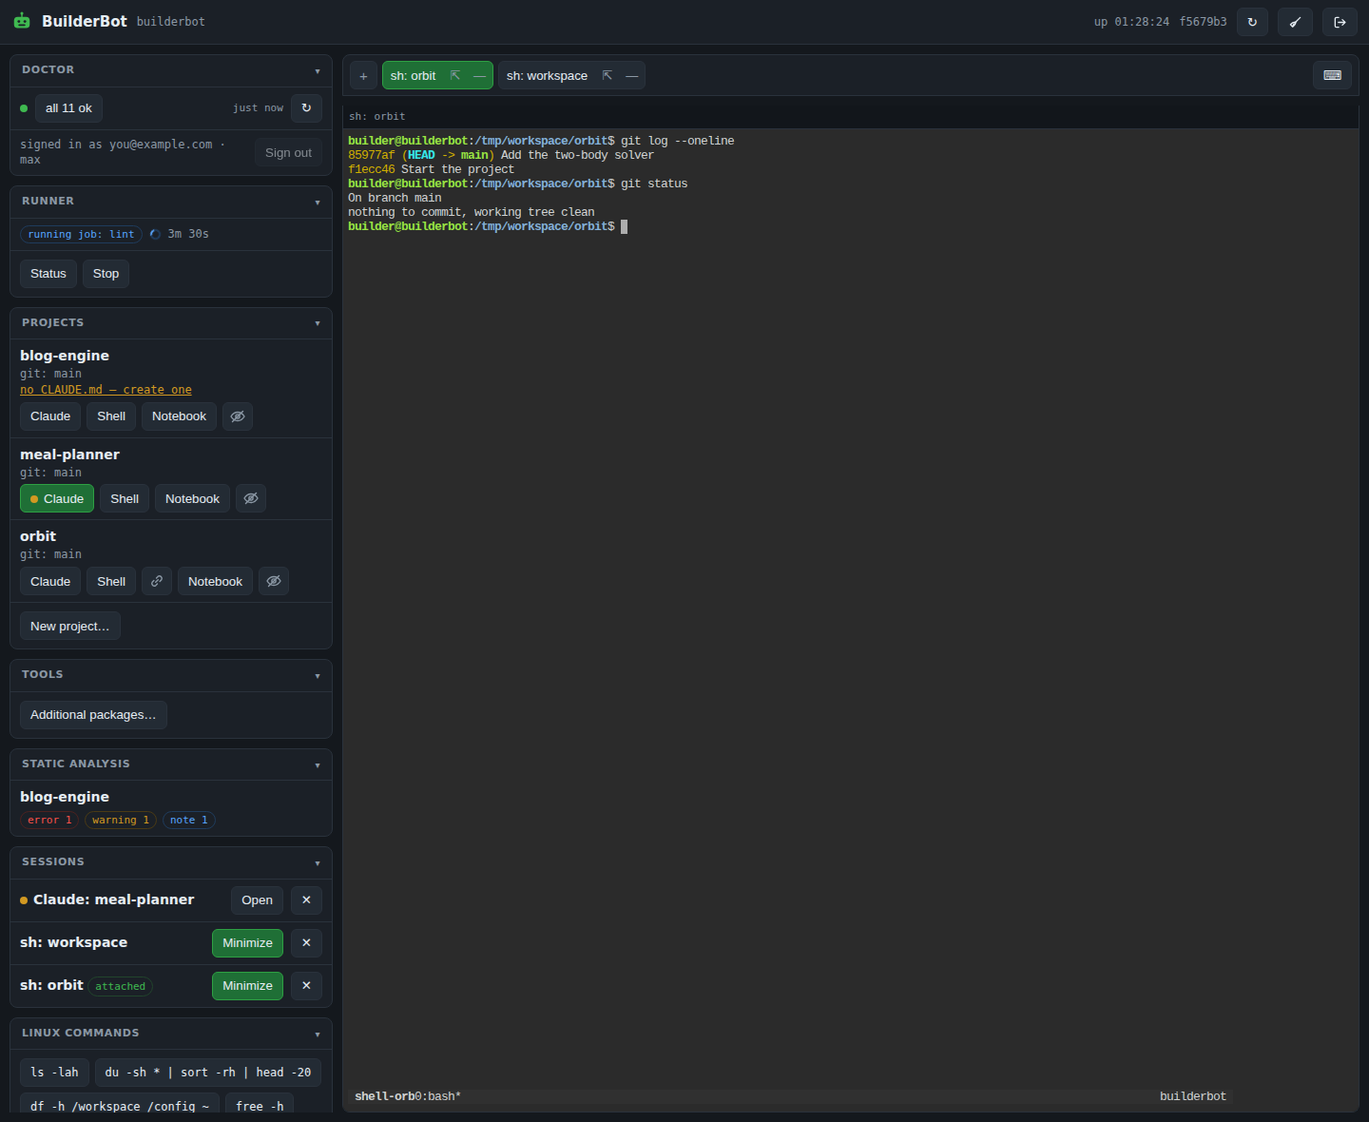
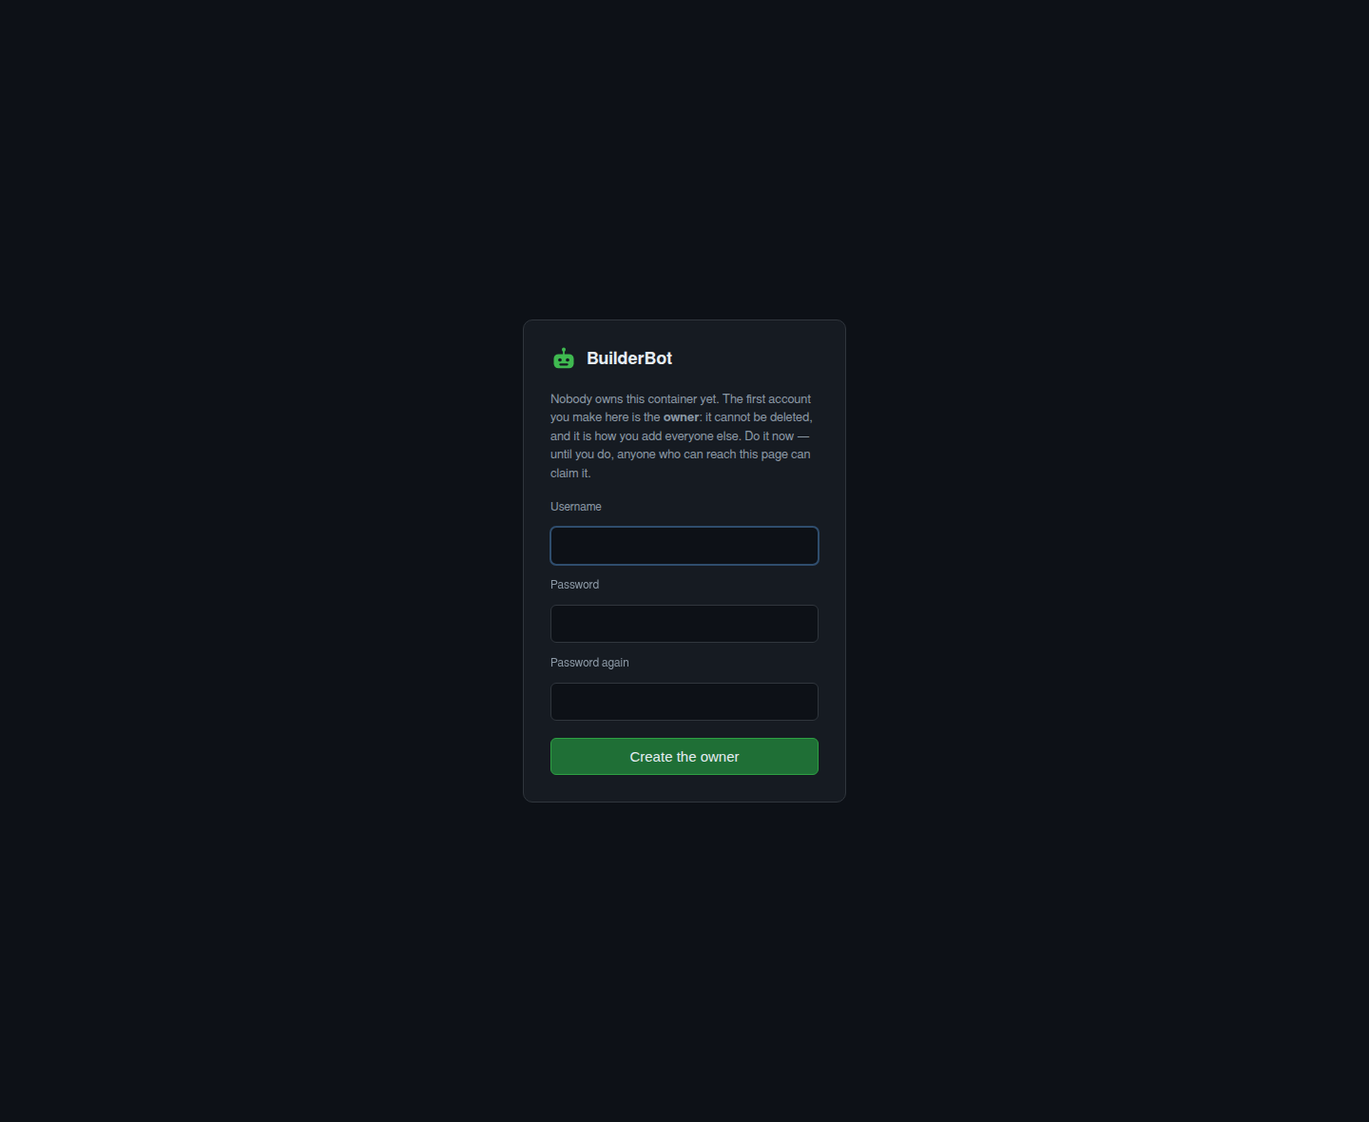
Make a sentence readable on a phone, starting with the changelog
The changelog editor on a phone was a wall: every entry a one-line input
showing thirty of its three hundred characters, and a category band drawn
the same size and shape as an entry, so the arrangement could not be read
at all.

An entry's words are now a proseline and a band is a heading. A proseline
is the convention the rest of this follows: a value that is one line of
PROSE gets a textarea that wraps, grows to its content and never scrolls
inside itself, with Enter still not making a newline because the value is
still one line. Every <input> carrying a maxlength over 120 becomes one —
the roadmap's item and step fields, the reason a thing was dropped, a
bug's title, area, expected and actual, a memory's hook, a test's reason,
the commit message — and uniform.mjs fails any that come back.

Wired by a MutationObserver rather than a call at each draw, for the same
reason the field skin styles elements instead of keeping an allowlist of
containers: a surface that forgets to opt in is the failure mode.

Also: .clog inherited the changelog pane's pre-wrap, so every hint in it
kept the indentation of the template literal it was written in.

Claude-Session: https://claude.ai/code/session_01G6iUPRzoJRfbfo2GdZ1FKR

diff --git a/scripts/dashboard/index.html b/scripts/dashboard/index.html
@@ -986,6 +986,19 @@ textarea,select{
   .side .card select{font-size:16px;min-height:var(--tap)}
 }
 .modal textarea{min-height:132px;resize:vertical;white-space:pre}
+/* A value that is ONE LINE of prose, in a box that can show all of it. An
+   <input> shows about thirty characters at phone width, which is not enough
+   to read a sentence with, let alone edit one — and a roadmap item, a bug's
+   title or a changelog entry runs to three hundred. So: a textarea that
+   wraps and grows to its content, never scrolling inside itself, with Enter
+   still not making a newline because the value is still one line.
+   proseline() does the growing; see docs/design-language.md (Controls).
+
+   BELOW `.modal textarea` and not above it: that rule is `white-space:pre`
+   at the same specificity, so a proseline in a sheet stopped wrapping and
+   went back to being the one-line box this exists to replace. */
+textarea.proseline{resize:none;overflow:hidden;white-space:pre-wrap;
+  overflow-wrap:anywhere;min-height:var(--tap)}
 /* The env editor wraps where the command editor does not. The rule above is
    pre because a wrapped shell line lies about what runs — but this is an env
    file whose own lines are short KEY=value pairs, and what overflows is the
@@ -1227,16 +1240,38 @@ textarea,select{
    arrangement reads as a list rather than as a form. The commits are on the
    row and not editable: they are what the entry IS, and the words are what
    somebody is here to change. */
-.clog{padding:11px 14px;display:flex;flex-direction:column;gap:10px}
-.clog .clgroup{display:flex;flex-direction:column;gap:6px}
-.clog .clhead{display:flex;align-items:center;gap:6px}
-.clog .clhead input{flex:1 1 auto;min-width:0;font:600 12px/1.4 system-ui,sans-serif}
-.clog .clrow{display:flex;align-items:center;gap:6px;flex-wrap:wrap}
-.clog .clrow input.cltext{flex:1 1 16rem;min-width:0}
-.clog .clrow select{flex:0 0 auto;width:auto}
-.clog .clsha{font:11px/1 var(--mono);color:var(--dim);flex:0 0 auto}
+/* white-space, because .clog is drawn INSIDE the .verlogpane and inherited
+   its pre-wrap: every line of every hint and label here kept the indentation
+   of the template literal it was written in. */
+.clog{padding:11px 14px;display:flex;flex-direction:column;gap:16px;
+  white-space:normal}
+.clog .clgroup{display:flex;flex-direction:column;gap:10px}
+/* A category is a HEADING with its two controls, not another field. It was a
+   bordered box the size of an entry's box, so on a phone — where every row is
+   full width anyway — a band and a line were indistinguishable and the
+   arrangement could not be read at all. It reads as the name of what is under
+   it until you put a cursor in it, and then it is a field again. */
+.clog .clhead{display:flex;align-items:center;gap:6px;
+  border-bottom:1px solid var(--line);padding-bottom:5px}
+.clog .clhead input.clname{flex:1 1 auto;min-width:0;width:auto;
+  background:none;border:1px solid transparent;padding:3px 5px;
+  font:600 14px/1.3 system-ui,sans-serif;color:var(--ink)}
+.clog .clhead input.clname:focus{background:var(--sunk);border-color:var(--line)}
+/* An entry is its words, wrapping, with everything ABOUT it on one quiet line
+   underneath. The words were a one-line input: a 200-character entry showed
+   thirty characters of itself on a phone, which is not something anybody can
+   read, let alone edit. Prose in the notebook is a page and takes the sans
+   face, the way a drop box and a send box do. */
+.clog .clrow{display:flex;flex-direction:column;gap:5px}
+.clog .clrow textarea.cltext{width:100%;box-sizing:border-box;
+  padding:7px 8px;font:12.5px/1.5 system-ui,sans-serif}
+.clog .clmeta{display:flex;align-items:center;gap:6px;flex-wrap:wrap}
+.clog .clmeta select{flex:0 0 auto;width:auto;min-width:0}
+.clog .clmeta .sp{flex:1 1 auto}
+.clog .clsha{font:11px/1 var(--mono);color:var(--dim);flex:0 1 auto;
+  overflow-wrap:anywhere}
 .clog .none{color:var(--dim);font:var(--f-note)}
-@media(max-width:900px){ .clog .clrow input.cltext{flex:1 1 100%} }
+@media(max-width:900px){ .clog .clrow textarea.cltext{font-size:16px} }
 /* A card body that is prose-and-controls rather than rows: the same inner
    air .macros and .docbar give their cards. The Claude card ran its content
    to the card edge for want of exactly this. */
@@ -1627,10 +1662,10 @@ pre.diff .d-ctx{color:var(--dim)}
 .addstep .link{background:none;border:0;color:var(--dim);padding:2px 0;
   font:12px/1.4 system-ui,sans-serif;min-height:24px}
 @media(hover:hover){ .addstep .link:hover{color:var(--accent)} }
-.addstep input{flex:1;min-width:0;padding:5px 8px;
+.addstep textarea{flex:1;min-width:0;padding:5px 8px;
   font:12.5px/1.4 system-ui,sans-serif;min-height:var(--tap)}
 .addstep button{flex:0 0 auto;min-height:var(--tap)}
-@media(max-width:900px){ .addstep input{font-size:16px} }
+@media(max-width:900px){ .addstep textarea{font-size:16px} }
 /* Moving things about: dim until it can, like every other row control. */
 .todo .mv{color:var(--dim)}
 .todo .mv[disabled]{opacity:.3}
@@ -2818,8 +2853,8 @@ body.booting .pane>.loading{margin:auto}
            are the three things you do TO the list, as against the History
            above, which only reads it. -->
       <div class="todoadd" data-add="roadmap">
-        <input id="todoText" maxlength="500" autocomplete="off"
-               placeholder="something for the roadmap">
+        <textarea id="todoText" class="proseline" rows="1" maxlength="500"
+               placeholder="something for the roadmap"></textarea>
         <button id="todoAdd" class="primary" type="button">Add</button>
         <button id="todoOrder" type="button" hidden
           title="move things up and down — the send controls come back when you are done"
@@ -3743,6 +3778,46 @@ const esc = s => String(s ?? "").replace(/[&<>"']/g,
   c => ({"&":"&amp;","<":"&lt;",">":"&gt;",'"':"&quot;","'":"&#39;"}[c]));
 const tabOf = id => tabs.find(t => t.id === id) || null;
 const isSplit = () => panes[1] !== null;
+
+// ---- proselines: one line of prose, in a box that can show all of it ------
+// An <input> shows about thirty characters at phone width. A roadmap item, a
+// bug's title, a changelog entry or a test's reason runs to three hundred, so
+// on a phone every one of those was a field you could not read what you were
+// editing in. A `textarea.proseline` wraps and grows to its content instead.
+//
+// It is still ONE LINE of prose: Enter never inserts a newline here, and a
+// site's own Enter handler (add it, save it) still runs, because this only
+// prevents the default.
+function proseline(el){
+  if (!el || el.dataset.prose) return;
+  el.dataset.prose = "1";
+  const fit = () => { el.style.height = "auto";
+                      el.style.height = (el.scrollHeight + 2) + "px"; };
+  el.addEventListener("input", fit);
+  el.addEventListener("keydown", e => { if (e.key === "Enter") e.preventDefault(); });
+  // Twice: once now, and once after layout, because a box that is drawn into
+  // a hidden or just-inserted parent measures zero and would stay one line.
+  fit();
+  requestAnimationFrame(fit);
+}
+// Every proseline in `root`, and `root` itself if it is one.
+function proselines(root){
+  if (!root) return;
+  if (root.matches && root.matches("textarea.proseline")) proseline(root);
+  if (root.querySelectorAll)
+    root.querySelectorAll("textarea.proseline").forEach(proseline);
+}
+// Wired when one APPEARS, rather than by a call at the end of each draw, for
+// the same reason the field skin above styles elements instead of keeping an
+// allowlist of containers: a surface that forgets to opt in is the failure
+// mode, and this way there is nothing to opt into. Idempotent — proseline()
+// marks what it has wired. The one place that still calls it by hand is
+// arriveBox, which measures a box's height synchronously and so cannot wait
+// for the observer's microtask.
+new MutationObserver(ms => {
+  for (const m of ms)
+    for (const n of m.addedNodes) if (n.nodeType === 1) proselines(n);
+}).observe(document.documentElement, {childList: true, subtree: true});
 
 // Mirrors bb-tty. The key bar, the kill button and the macro sender all address
 // tmux by name, and the terminal is an iframe we cannot reach into, so they
@@ -6100,6 +6175,7 @@ function paginate(host, rowSel, opts = {}){
 // jumping out of the way. Height rather than opacity, because those lines
 // have to move either way and moving them smoothly is the whole point.
 function arriveBox(el){
+  proselines(el);
   if (noMotion() || !el) return;
   foldHeight(el, 0, el.offsetHeight, () => {});
 }
@@ -9992,8 +10068,8 @@ function openDrop(row, id, step){
   const box = document.createElement("div");
   box.className = "dropbox";
   box.innerHTML = `<div class="q">Drop this?${also ? ` <span>— ${esc(also)}</span>` : ""}</div>
-    <input maxlength="500" autocomplete="off"
-      placeholder="why it is going (optional, kept in the history)">
+    <textarea class="proseline" rows="1" maxlength="500"
+      placeholder="why it is going (optional, kept in the history)"></textarea>
     <div class="actbar">
       <button type="button" class="stop">Cancel</button>
       <button type="button" class="danger">Drop it</button></div>`;
@@ -10002,11 +10078,11 @@ function openDrop(row, id, step){
   const shut = () => box.remove();
   box.querySelector(".stop").onclick = shut;
   box.querySelector(".danger").onclick = () => {
-    const why = box.querySelector("input").value;
+    const why = box.querySelector("textarea").value;
     shut();
     stageRemove(id, step, why);
   };
-  box.querySelector("input").onkeydown = e => {
+  box.querySelector("textarea").onkeydown = e => {
     if (e.key === "Enter"){ e.preventDefault(); box.querySelector(".danger").click(); }
     if (e.key === "Escape"){ e.preventDefault(); e.stopPropagation(); shut(); }
   };
@@ -10066,10 +10142,10 @@ function openReword(row, id, step){
 // rather than assembled a dialog at a time.
 function openStepInput(box){
   const id = box.dataset.id;
-  box.innerHTML = `<input maxlength="500" autocomplete="off"
-      placeholder="then…"><button type="button" class="primary">Add</button>
+  box.innerHTML = `<textarea class="proseline" rows="1" maxlength="500"
+      placeholder="then…"></textarea><button type="button" class="primary">Add</button>
       <button type="button" class="stop">Cancel</button>`;
-  const inp = box.querySelector("input"), btn = box.querySelector(".primary");
+  const inp = box.querySelector("textarea"), btn = box.querySelector(".primary");
   // Escape closes it too, but a phone keyboard has no Escape — and a field
   // that only closes by being emptied first is a field you are stuck in.
   box.querySelector(".stop").onclick = () => closeStepInput(box);
@@ -10263,8 +10339,8 @@ function drawMemory(j){
           <input class="ixt" maxlength="80" autocomplete="off" spellcheck="false"
             value="${esc(m.title)}">
           ${lbl("", "Hook", "one line, what it says. Recall matches on it")}
-          <input class="ixh" maxlength="240" autocomplete="off"
-            value="${esc(m.hook)}">
+          <textarea class="ixh proseline" rows="1" maxlength="240"
+            >${esc(m.hook)}</textarea>
         </div>
         <div class="ixnote${m.listed ? "" : " bad"}">${m.listed
           ? "Its line in the index — the one part loaded into every session started here."
@@ -10495,8 +10571,8 @@ function paintMemAdd(box){
     </div>
     <div class="hint" id="naWhat"></div>
     <label for="naHook">Hook<span class="help" data-tip="its one line in the index, and what recall matches on" tabindex="0">?</span></label>
-    <input id="naHook" maxlength="240" autocomplete="off"
-      placeholder="a word and an animated ellipsis, never a bar or a percentage">
+    <textarea id="naHook" class="proseline" rows="1" maxlength="240"
+      placeholder="a word and an animated ellipsis, never a bar or a percentage"></textarea>
     <label for="naBody">The memory itself</label>
     <textarea id="naBody" spellcheck="false"
       placeholder="The fact, in a line or two. For a kind that is guidance, follow it with why it is the rule and how to apply it."></textarea>
@@ -11295,8 +11371,8 @@ $("todoRevert").onclick = revertNotebook;
     // Adding goes at the top: the commit's form is the section's first
     // band, above the files it will take.
     const commitBar = files.length && !locked ? `<div class="addbar gcommitbar" data-add="commit">
-        <input id="gitMsg" maxlength="200" autocomplete="off" placeholder="what changed, for the log"
-          aria-label="commit message" value="${esc(gitMsgDraft)}">
+        <textarea id="gitMsg" class="proseline" rows="1" maxlength="200" placeholder="what changed, for the log"
+          aria-label="commit message">${esc(gitMsgDraft)}</textarea>
         <button type="button" class="primary" id="gitCommit"
           title="commit every changed file under your author">Commit all</button>
       </div>` : "";
@@ -11904,8 +11980,8 @@ project can have several"
           + `<option value="\u0000new">new category…</option>`;
         pane.innerHTML =
           `<div class="clog">
-             <div class="hint">Sessions add the lines; the order, the categories and
-               the words are yours. Saved to CHANGELOG.md when you press Save.</div>
+             <div class="hint">Sessions add the lines; the order, the categories
+               and the words are yours, saved to CHANGELOG.md when you press Save.</div>
              ${gs.length ? gs.map((g, gi) => `
                <div class="clgroup" data-g="${gi}">
                  ${g.name ? `<div class="clhead">
@@ -11918,14 +11994,17 @@ project can have several"
                  </div>` : ""}
                  ${g.entries.map((e, ei) => `
                    <div class="clrow" data-g="${gi}" data-e="${ei}">
-                     <input class="cltext" value="${esc(e.text)}" maxlength="300"
-                            aria-label="what changed">
-                     <select class="clcat" aria-label="category">${opts(g.name)}</select>
-                     <span class="clsha">${esc((e.shas || []).join(", ")) || "—"}</span>
-                     <button type="button" data-emv="up" title="move up">↑</button>
-                     <button type="button" data-emv="down" title="move down">↓</button>
-                     <button type="button" class="danger" data-erm
-                       title="drop this line — the commit is untouched">✕</button>
+                     <textarea class="cltext proseline" rows="1" maxlength="300"
+                       aria-label="what changed">${esc(e.text)}</textarea>
+                     <div class="clmeta">
+                       <select class="clcat" aria-label="category">${opts(g.name)}</select>
+                       <span class="clsha">${esc((e.shas || []).join(", ")) || "—"}</span>
+                       <span class="sp"></span>
+                       <button type="button" data-emv="up" title="move up">↑</button>
+                       <button type="button" data-emv="down" title="move down">↓</button>
+                       <button type="button" class="danger" data-erm
+                         title="drop this line — the commit is untouched">✕</button>
+                     </div>
                    </div>`).join("")}
                </div>`).join("")
              : `<div class="none">Nothing unreleased here yet.</div>`}
@@ -11949,6 +12028,8 @@ project can have several"
         });
         q(".clrow", row => {
           const g = gs[Number(row.dataset.g)], e = g.entries[Number(row.dataset.e)];
+          // The growing is proseline()'s, wired by the observer when the row
+          // appears; this only has to hear the words change.
           row.querySelector(".cltext").onchange = ev => { e.text = ev.target.value; };
           row.querySelector("[data-erm]").onclick = () => {
             g.entries.splice(g.entries.indexOf(e), 1);
@@ -12946,8 +13027,9 @@ become that version's section when it is created">Changelog${
         ${t.sits_on ? `
         <label class="ndcap"><input type="checkbox" class="tstAccept"${(draft ? draft.accept : t.accepted) ? " checked" : ""}>
           the wait is the work — it has to sit on ${t.sits_on}s, so stop flagging it</label>
-        <input class="tstWhy" maxlength="300" autocomplete="off" placeholder="why — a real boot, a timeout being proved"
-          value="${esc(draft ? draft.why : t.accepted)}"${(draft ? draft.accept : t.accepted) ? "" : " hidden"}>` : ""}
+        <textarea class="tstWhy proseline" rows="1" maxlength="300" placeholder="why — a real boot, a timeout being proved"
+          ${(draft ? draft.accept : t.accepted) ? "" : "hidden"
+            }>${esc(draft ? draft.why : t.accepted)}</textarea>` : ""}
         <div class="actbar"><span class="sp"></span>
           <button type="button" class="stop tstCancel"
             title="put the fields away — what was typed here is dropped">Cancel</button>
@@ -13096,24 +13178,26 @@ become that version's section when it is created">Changelog${
     const v = k => esc(b?.[k] || "");
     return `<div class="memadd bugform">
       <label>Title</label>
-      <input class="bfTitle" maxlength="200" autocomplete="off" value="${v("title")}"
-        placeholder="the picker loses its selection on rotate">
+      <textarea class="bfTitle proseline" rows="1" maxlength="200"
+        placeholder="the picker loses its selection on rotate">${v("title")}</textarea>
       <div class="two">
         <div><label>Severity</label>
           <select class="bfSev">${SEVS.map(x =>
             `<option value="${x}"${(b?.severity || "medium") === x ? " selected" : ""}>${x}</option>`).join("")}</select></div>
         <div><label>Where<span class="help" data-tip="files, component, screen" tabindex="0">?</span></label>
-          <input class="bfArea" maxlength="200" autocomplete="off" value="${v("area")}"
-            placeholder="scripts/dashboard/index.html, the picker"></div>
+          <textarea class="bfArea proseline" rows="1" maxlength="200"
+            placeholder="scripts/dashboard/index.html, the picker">${v("area")}</textarea></div>
       </div>
       <label>How to reproduce</label>
       <textarea class="bfRepro" spellcheck="false"
         placeholder="1. open the picker on a phone&#10;2. rotate">${v("repro")}</textarea>
       <div class="two">
         <div><label>Expected</label>
-          <input class="bfExpected" maxlength="300" autocomplete="off" value="${v("expected")}"></div>
+          <textarea class="bfExpected proseline" rows="1" maxlength="300"
+            >${v("expected")}</textarea></div>
         <div><label>Actual</label>
-          <input class="bfActual" maxlength="300" autocomplete="off" value="${v("actual")}"></div>
+          <textarea class="bfActual proseline" rows="1" maxlength="300"
+            >${v("actual")}</textarea></div>
       </div>
       <label>Notes<span class="help" data-tip="cause, analysis, fix plan" tabindex="0">?</span></label>
       <textarea class="bfNotes" spellcheck="false"
@@ -13299,8 +13383,8 @@ become that version's section when it is created">Changelog${
         box.className = "dropbox";
         box.innerHTML = `<div class="q">Delete this report?<span> — closing keeps
             a bug and its answer; this takes the row</span></div>
-          <input maxlength="300" autocomplete="off"
-            placeholder="why it should not have been filed (optional, kept in the log)">
+          <textarea class="proseline" rows="1" maxlength="300"
+            placeholder="why it should not have been filed (optional, kept in the log)"></textarea>
           <div class="actbar">
             <button type="button" class="stop">Cancel</button>
             <button type="button" class="danger">Delete it</button></div>`;
@@ -13310,7 +13394,7 @@ become that version's section when it is created">Changelog${
         // so anything that arrived while it was open lands now.
         box.querySelector(".stop").onclick = () => { box.remove(); drawBugs(true); };
         box.querySelector(".danger").onclick = () => {
-          const why = box.querySelector("input").value;
+          const why = box.querySelector("textarea").value;
           box.remove();
           postBug({action: "remove", id, why});
         };

diff --git a/CHANGELOG.md b/CHANGELOG.md
@@ -19,7 +19,7 @@
 - Dropdown menus now open in the dashboard's own colours on a phone, instead of the system dialog Android drew over the page (d0b85fd)
 - Changes made in another window, or by a session, show up on the tab you are looking at within a second or two instead of up to fifteen: the roadmap, memories, rules, the approval queue, the test registry and controller settings (fd9fe96)
 - A project's CLAUDE.md now carries only the sections that apply to it, so a plain project's sessions start on about a thousand fewer words (016a5d3)
-- The About popup's changelog now shows what is unreleased and the current minor version's releases, saying how many earlier ones are in the full file, instead of the whole project history (7fb7d0d)
+- The About popup's changelog shows what is unreleased and the current minor version's releases, grouped by the categories they were filed under, and says how many earlier releases are in the full file (7fb7d0d, e9595bf)
 
 ### Fixed
 
@@ -35,6 +35,7 @@
 - A Claude session on a node stops getting signed out at random: the account's login is now kept in step with the controller while the session runs, rather than only when you open its terminal tab (b036b91)
 - The active tab is readable on every colour scheme: its name and buttons were being drawn in a quiet grey on a bright fill, worst on Nostromo (1ebc1e6)
 - Running a project's tests from a session on a node works again, instead of reporting that part of the image is missing (09496ee)
+- Editing a changelog entry, a roadmap item, a bug's title or any other sentence on a phone now shows the whole line in a box that grows to fit it, instead of thirty characters of it in a one-line field (e9595bf)
 
 ## 0.5.0 — 2026-09-10
 

diff --git a/docs/design-language.md b/docs/design-language.md
@@ -105,6 +105,20 @@ select as one line high at phone width.
 node", not "Enroll node…" — whether a dialog follows is not the reader's
 problem, and the dots are not a word.
 
+**A value that is one line of PROSE is a `textarea.proseline`, never an
+`<input>`.** An input shows about thirty characters at phone width, and a
+roadmap item, a bug's title, a changelog entry or the reason something was
+dropped runs to three hundred: on a phone every one of those was a field you
+could not read what you were editing in. A proseline wraps, grows to its
+content and never scrolls inside itself. It is still one line — Enter does
+not make a newline in one, and the surface's own Enter handler still runs.
+`proseline()` does the growing and a MutationObserver wires every one that
+appears, so there is nothing for a new surface to remember; `arriveBox` is
+the one caller that asks by hand, because it measures a box's height in the
+same tick. The rule the suite enforces: no `<input>` on a document tab
+carries a `maxlength` over 120, because that is a sentence and a sentence is
+a proseline.
+
 **What the width test measures:** on every document tab, at desktop and at
 phone width, the union of each control row's controls and each lone control
 against the smaller of `--ctl-w` and nine tenths of the tab's box. A prose
